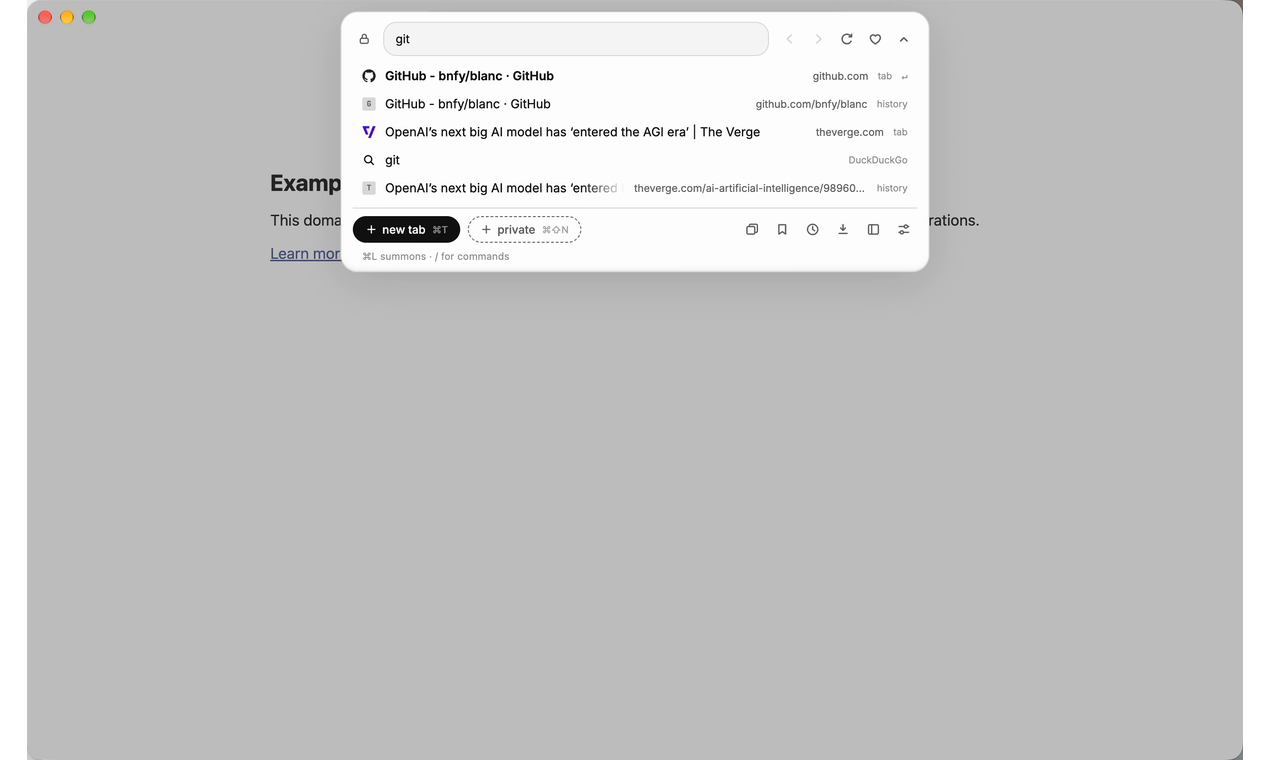
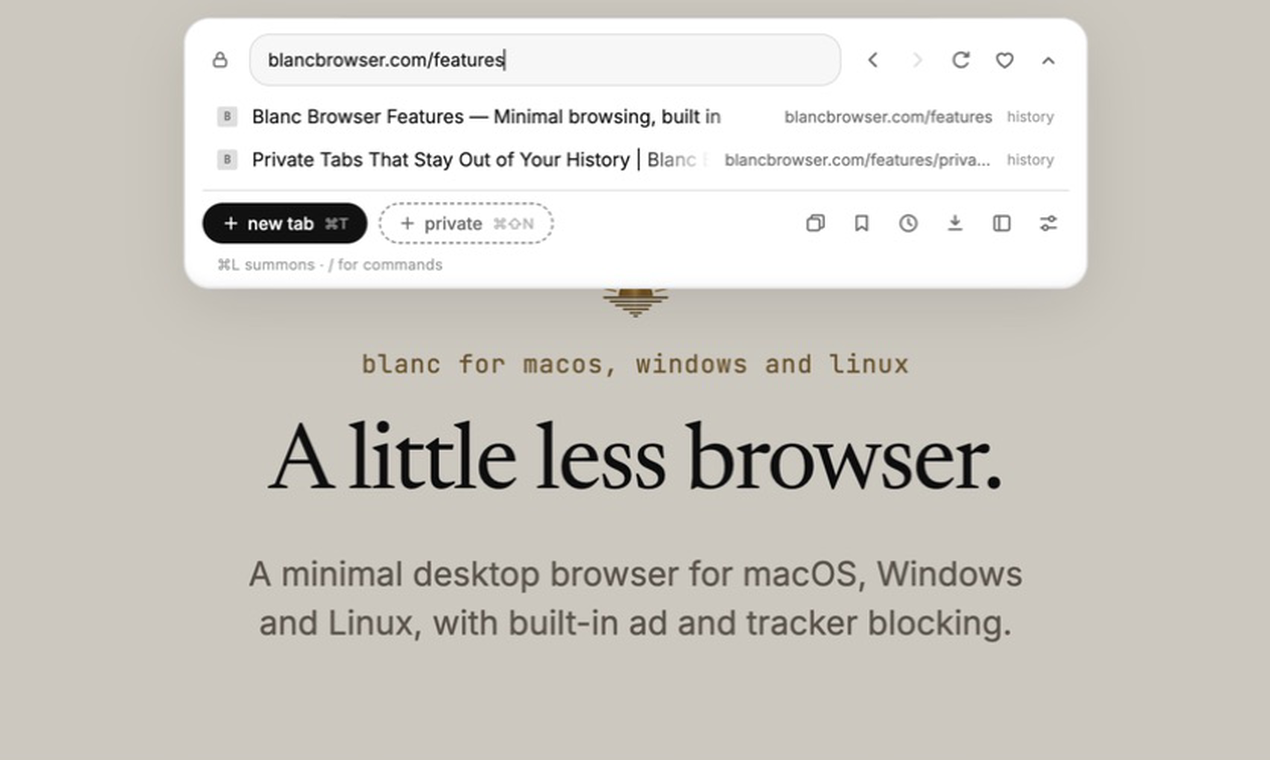
Refresh launch overview and Product Hunt media (#298)
* Refresh launch overview and Product Hunt media

* Record Product Hunt launch schedule

* Harden launch media URL assertions

diff --git a/test/unit/launch-overview-export.test.js b/test/unit/launch-overview-export.test.js
@@ -1,0 +1,19 @@
+const test = require('node:test');
+const assert = require('node:assert/strict');
+const fs = require('node:fs');
+const path = require('node:path');
+const root = path.resolve(__dirname, '../..');
+
+test('overview has a separate duration gate without relaxing the short demo', () => {
+  const short = fs.readFileSync(path.join(root, 'scripts/export-launch-demo.sh'), 'utf8');
+  const overview = fs.readFileSync(path.join(root, 'scripts/export-launch-overview.sh'), 'utf8');
+  assert.match(short, /seconds >= 18 && seconds <= 24/);
+  assert.match(overview, /seconds >= 40 && seconds <= 44/);
+  assert.match(overview, /scale=1920:1200/);
+  assert.match(overview, /fps=30/);
+  assert.match(overview, /-an -c:v libx264/);
+  assert.match(overview, /-color_primaries bt709 -color_trc bt709 -colorspace bt709/);
+  assert.match(overview, /incomplete source color metadata; do not guess/);
+  assert.match(overview, /review output already exists/);
+  assert.match(overview, /owner approval is required before upload/);
+});

diff --git a/test/unit/launch-media.test.js b/test/unit/launch-media.test.js
@@ -40,6 +40,13 @@ test('Product Hunt media matches the declared dimensions and launch wiring', () 
   }
   assert.match(provenance, new RegExp(`packaged public Blanc v${version.replaceAll('.', '\\.')}`));
   assert.match(provenance, /\.\.\/island-demo\.mp4/);
+  assert.ok(
+    copy.includes('| Approved launch overview | https://www.youtube.com/watch?v=xqUFMUcCjT0 |')
+  );
+  assert.ok(provenance.includes('`https://www.youtube.com/watch?v=xqUFMUcCjT0`'));
+  assert.ok(provenance.includes('`youtube-nocookie.com/embed/xqUFMUcCjT0`'));
+  assert.match(provenance, /September 10 at 12:01 a\.m\. PT \(3:01 a\.m\. ET\)/);
+  assert.match(provenance, /Pre-Launch Dashboard then reported `Scheduled`/);
   assert.notDeepEqual(
     fs.readFileSync(path.join(ROOT, PRODUCT_HUNT_DIR, 'island-resting-1270x760.png')),
     fs.readFileSync(path.join(ROOT, PRODUCT_HUNT_DIR, 'quick-switcher-1270x760.png')),

diff --git a/docs/superpowers/plans/assets/launch-copy.md b/docs/superpowers/plans/assets/launch-copy.md
@@ -70,22 +70,41 @@ Canonical URLs—copy exactly:
 | AlternativeTo | https://blancbrowser.com |
 | BetaList | https://blancbrowser.com/?ref=betalist |
 
-Packaged-v1.15.0 launch demo assets:
+Packaged-v1.15.0 launch media:
 
 | Form | URL |
 |---|---|
-| MP4 | https://raw.githubusercontent.com/bnfy/blanc/f6be585924eddfc8858174583f7c38f1ebc1cffb/docs/superpowers/plans/assets/island-demo.mp4 |
-| GIF | https://raw.githubusercontent.com/bnfy/blanc/f6be585924eddfc8858174583f7c38f1ebc1cffb/docs/superpowers/plans/assets/island-demo.gif |
+| Approved launch overview | https://www.youtube.com/watch?v=xqUFMUcCjT0 |
+| Existing short MP4 | https://raw.githubusercontent.com/bnfy/blanc/f6be585924eddfc8858174583f7c38f1ebc1cffb/docs/superpowers/plans/assets/island-demo.mp4 |
+| Existing short GIF | https://raw.githubusercontent.com/bnfy/blanc/f6be585924eddfc8858174583f7c38f1ebc1cffb/docs/superpowers/plans/assets/island-demo.gif |
 
-These files were captured on September 3 from the installed packaged public
+The existing short files were captured on September 3 from the installed packaged public
 v1.15.0 macOS app in an isolated local profile with telemetry and search
 suggestions disabled. The 22-second export is 1920×1200, 30 fps H.264, and
 BT.709; the 960×600 GIF is below 8 MiB. It shows the resting Island, `⌘L`
 expansion, a live `git` Quick Switcher filter, tab-dot switching, The Verge's
-live blocker count and popover, and a final resting hold. The
-MP4 is the source for the required public or unlisted YouTube upload before
-Product Hunt. A raw MP4 URL does not satisfy Product Hunt's gallery-video
-field.
+live blocker count and popover, and a final resting hold. They remain the README
+demo and were not deleted or replaced.
+
+The approved 42-second launch overview was recorded on September 4 from the
+same installed packaged public release in a dedicated local capture profile.
+It uses the live Blanc site and public GitHub repository as backdrops and shows
+the Quick Switcher and slash commands, an explicitly named tab group, Glance
+with Make main, the real one-request blocker count and site controls, real
+Explore/Build Named Workspace switching with a persistent `Patron` label, and
+one legal Mahjong match. It is a 1920×1200, 30 fps H.264 BT.709 export with no
+audio stream and a 42.000-second duration. Captions occupy a reserved lower
+margin; the two Inter secondary lines are 38 px beneath 62 px Newsreader
+captions. Anthony approved that revision on September 4.
+
+The replacement was uploaded as a new unlisted YouTube video with no copyright
+issues, and its embedding was verified both on a referrer-bearing test page and
+inside the unpublished Product Hunt draft. YouTube custom-thumbnail upload is
+unavailable until the channel completes phone verification, so the matching
+homepage-backed poster remains in the owner's local review output; no account
+verification was attempted. The cleanest homepage-backed frame among YouTube's
+three generated choices was selected instead. The former unlisted YouTube video
+remains intact.
 
 ## Show HN — owner writes every public word
 
@@ -383,11 +402,19 @@ Prepared release-backed media:
 - Gallery still 1: `product-hunt/island-resting-1270x760.png`
 - Gallery still 2: `product-hunt/quick-switcher-1270x760.png`
 
-The two stills were exported from the packaged-v1.15.0 launch demo and satisfy
+The two stills were recaptured on September 4 from packaged v1.15.0 over the
+live Blanc homepage, replacing the Example Domain video frames. They satisfy
 the guide's two-image gallery floor. Their exact provenance is in
 `product-hunt/README.md`.
-The full YouTube URL remains owner-supplied and must not be inferred from a raw
-MP4 URL.
+The demo is uploaded as unlisted at
+`https://www.youtube.com/watch?v=xqUFMUcCjT0`; embedded playback was verified in
+the unpublished Product Hunt draft on September 4. Product Hunt resolved the
+player to `youtube-nocookie.com/embed/xqUFMUcCjT0`, displayed the correct title,
+and reported a 42-second duration. The draft is saved at
+`https://www.producthunt.com/products/blanc-3?launch=blanc-3`. On September 4,
+Anthony authorized scheduling and the live picker confirmed **September 10 at
+12:01 a.m. PT (3:01 a.m. ET)**; the Pre-Launch Dashboard then reported
+`Scheduled` with the matching countdown.
 
 **Name**
 
@@ -404,9 +431,9 @@ MP4 URL.
 This is more candid than `Free`: core browsing is free, but Named Workspace
 creation is a paid benefit.
 
-**Tagline** — 51 characters
+**Tagline** — 22 characters; owner-confirmed website wording, September 4
 
-> A minimal desktop browser with built-in ad blocking
+> A little less browser.
 
 **Description** — 244 characters, within the current 260-character limit
 
@@ -447,7 +474,7 @@ Use only topics that exist in the live form and genuinely fit.
 
 **Gallery order**
 
-1. Island demo through a verified full YouTube URL.
+1. Approved 42-second launch overview through its verified full YouTube URL.
 2. `product-hunt/island-resting-1270x760.png`.
 3. `product-hunt/quick-switcher-1270x760.png`.
 4. Optional: a packaged-v1.15.0 Named Workspaces capture with a visible
@@ -609,8 +636,9 @@ drop a full defense where one sentence would do.
 - [ ] The owner's personal Product Hunt account can reach the submission form.
 - [ ] Product Hunt's full YouTube URL is not private, has had processing time,
   and appears in the preview with both stills before **Schedule Launch**.
-- [ ] Product Hunt's live form displays **September 10, 2026** before scheduling;
-      if an earlier channel slipped, every downstream date moved with it.
+- [x] Product Hunt's live form displayed **September 10, 2026** before
+      scheduling; the dashboard now reports `Scheduled` for 12:01 a.m. PT
+      (3:01 a.m. ET). If an earlier channel slips, reschedule Product Hunt too.
 - [ ] Each Reddit community's live rules and the eligibility matrix permit the
       planned post format; every ineligible candidate is explicitly skipped.
 - [ ] The HN account is eligible under the current Show HN restriction.

diff --git a/docs/superpowers/plans/assets/product-hunt/README.md b/docs/superpowers/plans/assets/product-hunt/README.md
@@ -5,18 +5,54 @@ no mockup, development-build UI, or behavior from post-release `main`.
 
 - `thumbnail-240x240.png` is a 240×240 Lanczos export of the production
   `site/public/logo.png` mark.
-- `island-resting-1270x760.png` is the 1.5-second frame from
-  `../island-demo.mp4`, scaled proportionally to 760 px high and padded on the
-  white page background to Product Hunt's recommended 1270×760 canvas.
-- `quick-switcher-1270x760.png` is the 6.5-second frame from the same video,
-  after the complete `git` query and results are visible, exported with the
-  same scale and pad.
+- `island-resting-1270x760.png` is a September 4 native screenshot of the
+  installed public v1.15.0 app displaying the live `https://blancbrowser.com/`
+  homepage, including the current “A little less browser.” headline.
+- `quick-switcher-1270x760.png` shows the same page behind the real Quick
+  Switcher, with `blancbrowser.com/features` and two public-site history results.
 
-The source demo was captured on September 3, 2026 from the installed packaged
-public v1.15.0 macOS app in an isolated local profile with telemetry and search
-suggestions disabled. Its full provenance and verification are recorded in
-`../launch-copy.md` and
-`../../2026-08-20-growth-counter-offensive.md`.
+The September 4 stills replace the Example Domain video-frame exports at the
+owner's request. They were captured in a separate window, with webpage zoom
+increased for legibility, then cropped to the central 836×500 region of the
+1229×768 native capture and scaled with Lanczos to 1270×760. The crop excludes
+the operating-system capture indicator, pointer and lower website demo; no
+product controls, website text or colors were composited or altered. The
+Quick Switcher's dimmed page is the real app scrim. Only public website results
+are visible; no other tabs or remote-device identifiers appear. Page zoom was
+restored after capture. The app mark thumbnail and both gallery stills remained
+unchanged when the launch video was replaced.
+
+Both replacement stills were uploaded to the unpublished Product Hunt draft
+at `https://www.producthunt.com/products/blanc-3?launch=blanc-3` on September 4.
+
+The approved launch video is the unlisted 42-second overview at
+`https://www.youtube.com/watch?v=xqUFMUcCjT0`. It was recorded on September 4
+from installed packaged public v1.15.0 in a dedicated capture profile, using
+only the live Blanc site and public GitHub pages. It demonstrates real Quick
+Switcher and slash-command use, tab-group assignment and folding, Glance Make
+main, the real one-request blocker count and site controls, Explore/Build Named
+Workspace switching with `Named Workspaces · Patron` visible, and one legal
+Mahjong match. The final 1920×1200, 30 fps H.264 BT.709 file is exactly 42.000
+seconds and has no audio stream. Anthony approved the revision with 38 px Inter
+secondary labels on September 4.
+
+YouTube reported no copyright issues and published the replacement as
+unlisted. Product Hunt saved only the video-field change; its draft player
+resolved to `youtube-nocookie.com/embed/xqUFMUcCjT0`, showed the correct title,
+and reported 42 seconds. Anthony authorized scheduling on September 4; the live
+picker confirmed September 10 at 12:01 a.m. PT (3:01 a.m. ET), and the
+Pre-Launch Dashboard then reported `Scheduled` with the matching countdown.
+YouTube requires phone verification before this channel can upload the matching
+custom poster, so no verification or credential flow was attempted. The cleanest homepage-backed
+frame among YouTube's three generated choices was selected instead; the exact
+matching poster is retained in the owner's local review output.
+
+The existing [22-second source demo](../island-demo.mp4) was captured on
+September 3, 2026 from the installed packaged public v1.15.0 macOS app in an
+isolated local profile with telemetry and search suggestions disabled. It
+remains the repository README demo. The former unlisted YouTube video was not
+deleted. Full provenance and verification are recorded in `../launch-copy.md`
+and `../../2026-08-20-growth-counter-offensive.md`.
 
 Before uploading, verify the files rather than trusting filenames:
 
